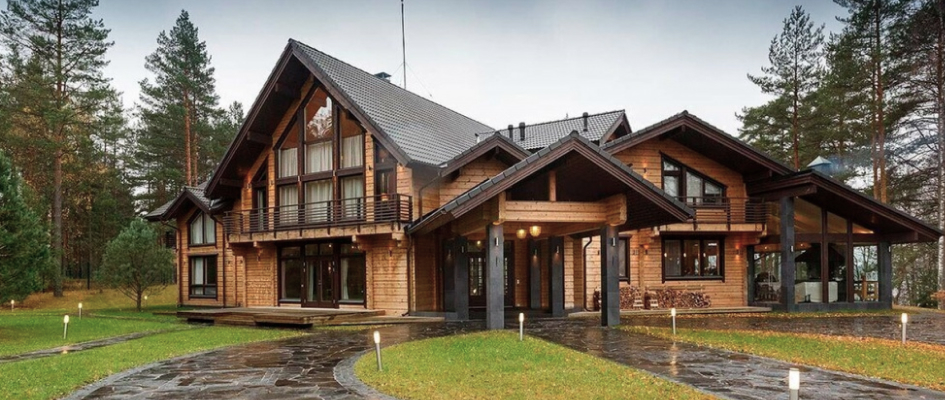
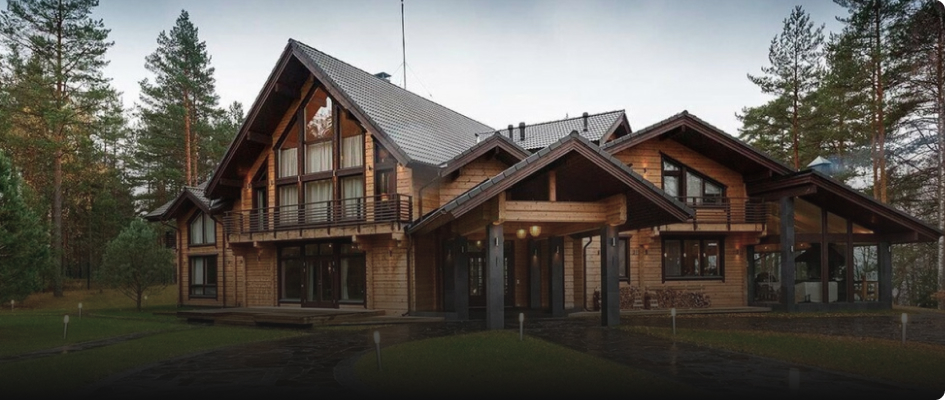
feat: add lazyload

diff --git a/src/local_modules/lozad/dist/lozad.es.js b/src/local_modules/lozad/dist/lozad.es.js
@@ -1,0 +1,178 @@
+/*! lozad.js - v1.16.0 - 2020-09-06
+* https://github.com/ApoorvSaxena/lozad.js
+* Copyright (c) 2020 Apoorv Saxena; Licensed MIT */
+
+
+/**
+ * Detect IE browser
+ * @const {boolean}
+ * @private
+ */
+const isIE = typeof document !== 'undefined' && document.documentMode;
+
+const defaultConfig = {
+  rootMargin: '0px',
+  threshold: 0,
+  load(element) {
+    if (element.nodeName.toLowerCase() === 'picture') {
+      let img = element.querySelector('img');
+      let append = false;
+
+      if (img === null) {
+        img = document.createElement('img');
+        append = true;
+      }
+
+      if (isIE && element.getAttribute('data-iesrc')) {
+        img.src = element.getAttribute('data-iesrc');
+      }
+
+      if (element.getAttribute('data-alt')) {
+        img.alt = element.getAttribute('data-alt');
+      }
+
+      if (append) {
+        element.append(img);
+      }
+    }
+
+    if (element.nodeName.toLowerCase() === 'video' && !element.getAttribute('data-src')) {
+      if (element.children) {
+        const childs = element.children;
+        let childSrc;
+        for (let i = 0; i <= childs.length - 1; i++) {
+          childSrc = childs[i].getAttribute('data-src');
+          if (childSrc) {
+            childs[i].src = childSrc;
+          }
+        }
+
+        element.load();
+      }
+    }
+
+    if (element.getAttribute('data-poster')) {
+      element.poster = element.getAttribute('data-poster');
+    }
+
+    if (element.getAttribute('data-src')) {
+      element.src = element.getAttribute('data-src');
+    }
+
+    if (element.getAttribute('data-srcset')) {
+      element.setAttribute('srcset', element.getAttribute('data-srcset'));
+    }
+
+    let backgroundImageDelimiter = ',';
+    if (element.getAttribute('data-background-delimiter')) {
+      backgroundImageDelimiter = element.getAttribute('data-background-delimiter');
+    }
+
+    if (element.getAttribute('data-background-image')) {
+      element.style.backgroundImage = `url('${element.getAttribute('data-background-image').split(backgroundImageDelimiter).join('\'),url(\'')}')`;
+    } else if (element.getAttribute('data-background-image-set')) {
+      const imageSetLinks = element.getAttribute('data-background-image-set').split(backgroundImageDelimiter);
+      let firstUrlLink = (imageSetLinks[0].substr(0, imageSetLinks[0].indexOf(' ')) || imageSetLinks[0]); // Substring before ... 1x
+      firstUrlLink = firstUrlLink.indexOf('url(') === -1 ? `url(${firstUrlLink})` : firstUrlLink;
+      if (imageSetLinks.length === 1) {
+        element.style.backgroundImage = firstUrlLink;
+      } else {
+        element.setAttribute('style', (element.getAttribute('style') || '') + `background-image: ${firstUrlLink}; background-image: -webkit-image-set(${imageSetLinks}); background-image: image-set(${imageSetLinks})`);
+      }
+    }
+
+    if (element.getAttribute('data-toggle-class')) {
+      element.classList.toggle(element.getAttribute('data-toggle-class'));
+    }
+  },
+  loaded() {}
+};
+
+function markAsLoaded(element) {
+  element.setAttribute('data-loaded', true);
+}
+
+function preLoad(element) {
+  if (element.getAttribute('data-placeholder-background')) {
+    element.style.background = element.getAttribute('data-placeholder-background');
+  }
+}
+
+const isLoaded = element => element.getAttribute('data-loaded') === 'true';
+
+const onIntersection = (load, loaded) => (entries, observer) => {
+  entries.forEach(entry => {
+    if (entry.intersectionRatio > 0 || entry.isIntersecting) {
+      observer.unobserve(entry.target);
+
+      if (!isLoaded(entry.target)) {
+        load(entry.target);
+        markAsLoaded(entry.target);
+        loaded(entry.target);
+      }
+    }
+  });
+};
+
+const getElements = (selector, root = document) => {
+  if (selector instanceof Element) {
+    return [selector]
+  }
+
+  if (selector instanceof NodeList) {
+    return selector
+  }
+
+  return root.querySelectorAll(selector)
+};
+
+function lozad (selector = '.lozad', options = {}) {
+  const {root, rootMargin, threshold, load, loaded} = Object.assign({}, defaultConfig, options);
+  let observer;
+
+  if (typeof window !== 'undefined' && window.IntersectionObserver) {
+    observer = new IntersectionObserver(onIntersection(load, loaded), {
+      root,
+      rootMargin,
+      threshold
+    });
+  }
+
+  const elements = getElements(selector, root);
+  for (let i = 0; i < elements.length; i++) {
+    preLoad(elements[i]);
+  }
+
+  return {
+    observe() {
+      const elements = getElements(selector, root);
+
+      for (let i = 0; i < elements.length; i++) {
+        if (isLoaded(elements[i])) {
+          continue
+        }
+
+        if (observer) {
+          observer.observe(elements[i]);
+          continue
+        }
+
+        load(elements[i]);
+        markAsLoaded(elements[i]);
+        loaded(elements[i]);
+      }
+    },
+    triggerLoad(element) {
+      if (isLoaded(element)) {
+        return
+      }
+
+      load(element);
+      markAsLoaded(element);
+      loaded(element);
+    },
+    observer
+  }
+}
+
+export default lozad;

diff --git a/src/local_modules/lozad/dist/lozad.min.js b/src/local_modules/lozad/dist/lozad.min.js
@@ -1,0 +1,10 @@
+/*! lozad.js - v1.16.0 - 2020-09-06
+* https://github.com/ApoorvSaxena/lozad.js
+* Copyright (c) 2020 Apoorv Saxena; Licensed MIT */
+!function(t,e){"object"==typeof exports&&"undefined"!=typeof module?module.exports=e():"function"==typeof define&&define.amd?define(e):t.lozad=e()}(this,function(){"use strict";
+/**
+   * Detect IE browser
+   * @const {boolean}
+   * @private
+   */var g="undefined"!=typeof document&&document.documentMode,f={rootMargin:"0px",threshold:0,load:function(t){if("picture"===t.nodeName.toLowerCase()){var e=t.querySelector("img"),r=!1;null===e&&(e=document.createElement("img"),r=!0),g&&t.getAttribute("data-iesrc")&&(e.src=t.getAttribute("data-iesrc")),t.getAttribute("data-alt")&&(e.alt=t.getAttribute("data-alt")),r&&t.append(e)}if("video"===t.nodeName.toLowerCase()&&!t.getAttribute("data-src")&&t.children){for(var a=t.children,o=void 0,i=0;i<=a.length-1;i++)(o=a[i].getAttribute("data-src"))&&(a[i].src=o);t.load()}t.getAttribute("data-poster")&&(t.poster=t.getAttribute("data-poster")),t.getAttribute("data-src")&&(t.src=t.getAttribute("data-src")),t.getAttribute("data-srcset")&&t.setAttribute("srcset",t.getAttribute("data-srcset"));var n=",";if(t.getAttribute("data-background-delimiter")&&(n=t.getAttribute("data-background-delimiter")),t.getAttribute("data-background-image"))t.style.backgroundImage="url('"+t.getAttribute("data-background-image").split(n).join("'),url('")+"')";else if(t.getAttribute("data-background-image-set")){var d=t.getAttribute("data-background-image-set").split(n),u=d[0].substr(0,d[0].indexOf(" "))||d[0];// Substring before ... 1x
+u=-1===u.indexOf("url(")?"url("+u+")":u,1===d.length?t.style.backgroundImage=u:t.setAttribute("style",(t.getAttribute("style")||"")+"background-image: "+u+"; background-image: -webkit-image-set("+d+"); background-image: image-set("+d+")")}t.getAttribute("data-toggle-class")&&t.classList.toggle(t.getAttribute("data-toggle-class"))},loaded:function(){}};function A(t){t.setAttribute("data-loaded",!0)}var m=function(t){return"true"===t.getAttribute("data-loaded")},v=function(t){var e=1<arguments.length&&void 0!==arguments[1]?arguments[1]:document;return t instanceof Element?[t]:t instanceof NodeList?t:e.querySelectorAll(t)};return function(){var r,a,o=0<arguments.length&&void 0!==arguments[0]?arguments[0]:".lozad",t=1<arguments.length&&void 0!==arguments[1]?arguments[1]:{},e=Object.assign({},f,t),i=e.root,n=e.rootMargin,d=e.threshold,u=e.load,g=e.loaded,s=void 0;"undefined"!=typeof window&&window.IntersectionObserver&&(s=new IntersectionObserver((r=u,a=g,function(t,e){t.forEach(function(t){(0<t.intersectionRatio||t.isIntersecting)&&(e.unobserve(t.target),m(t.target)||(r(t.target),A(t.target),a(t.target)))})}),{root:i,rootMargin:n,threshold:d}));for(var c,l=v(o,i),b=0;b<l.length;b++)(c=l[b]).getAttribute("data-placeholder-background")&&(c.style.background=c.getAttribute("data-placeholder-background"));return{observe:function(){for(var t=v(o,i),e=0;e<t.length;e++)m(t[e])||(s?s.observe(t[e]):(u(t[e]),A(t[e]),g(t[e])))},triggerLoad:function(t){m(t)||(u(t),A(t),g(t))},observer:s}}});

diff --git a/gulp/tasks/imageMinify.js b/gulp/tasks/imageMinify.js
@@ -8,7 +8,7 @@ module.exports = function imageMinify() {
       imagemin([
         imagemin.gifsicle({ interlaced: true }),
         imagemin.mozjpeg({
-          quality: 90,
+          quality: 75,
           progressive: true
         }),
         imagemin.optipng({ optimizationLevel: 4 }),

diff --git a/src/scripts/main.js b/src/scripts/main.js
@@ -1,4 +1,7 @@
 import * as sliders from './sliders';
+import lazyLoadObserver from './lazyload';
 import { validateFormCatalog } from './forms';
+
+lazyLoadObserver.observe();
 
 validateFormCatalog();

diff --git a/src/scripts/lazyload.js b/src/scripts/lazyload.js
@@ -1,0 +1,5 @@
+import lozad from 'lozad';
+
+const lazyLoadObserver = lozad();
+
+export default lazyLoadObserver;
